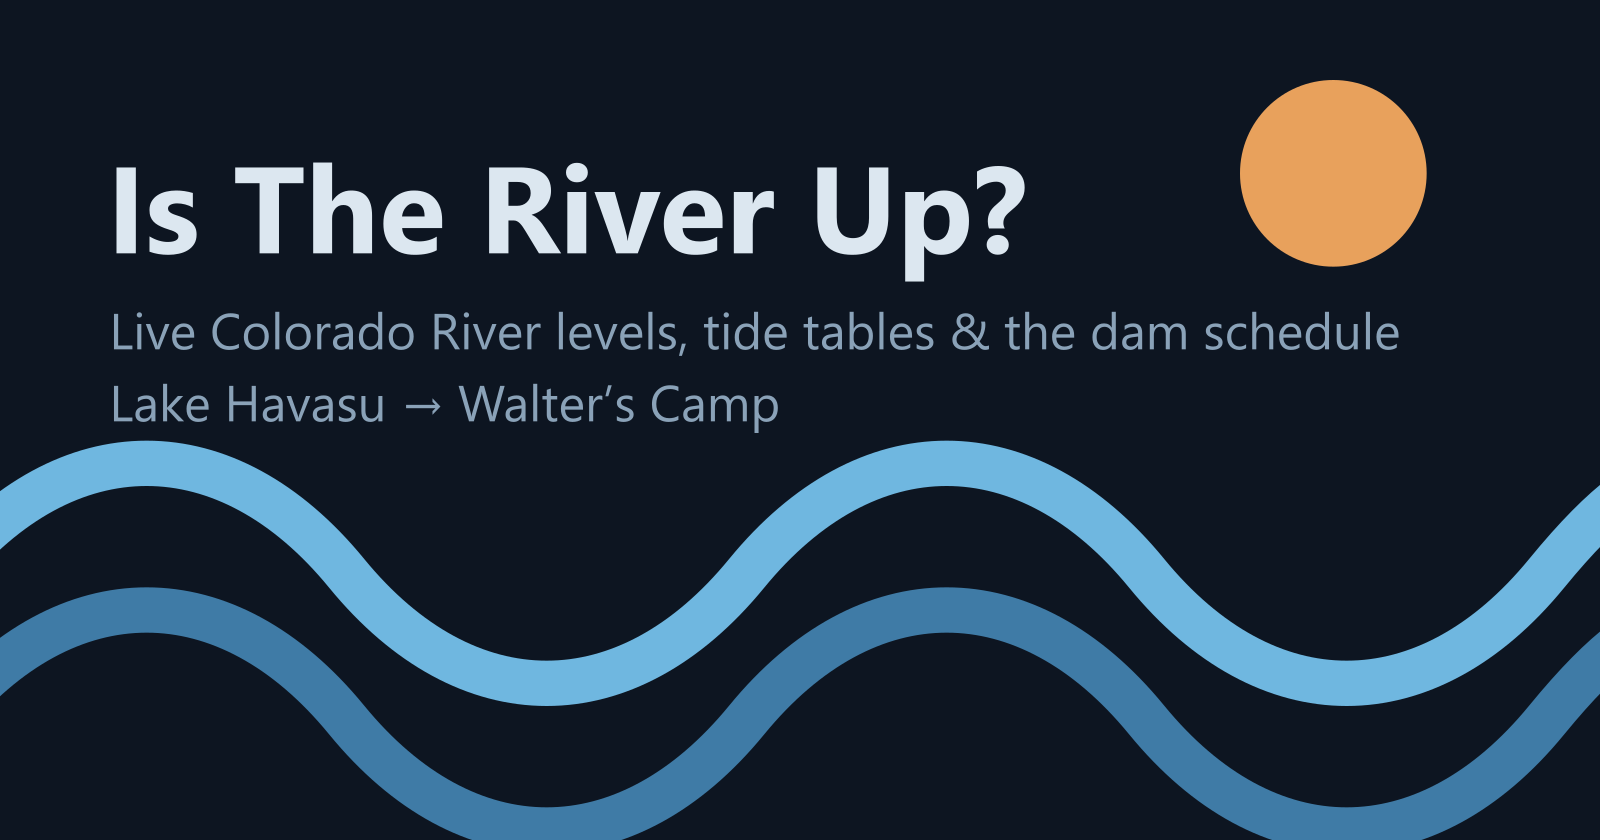
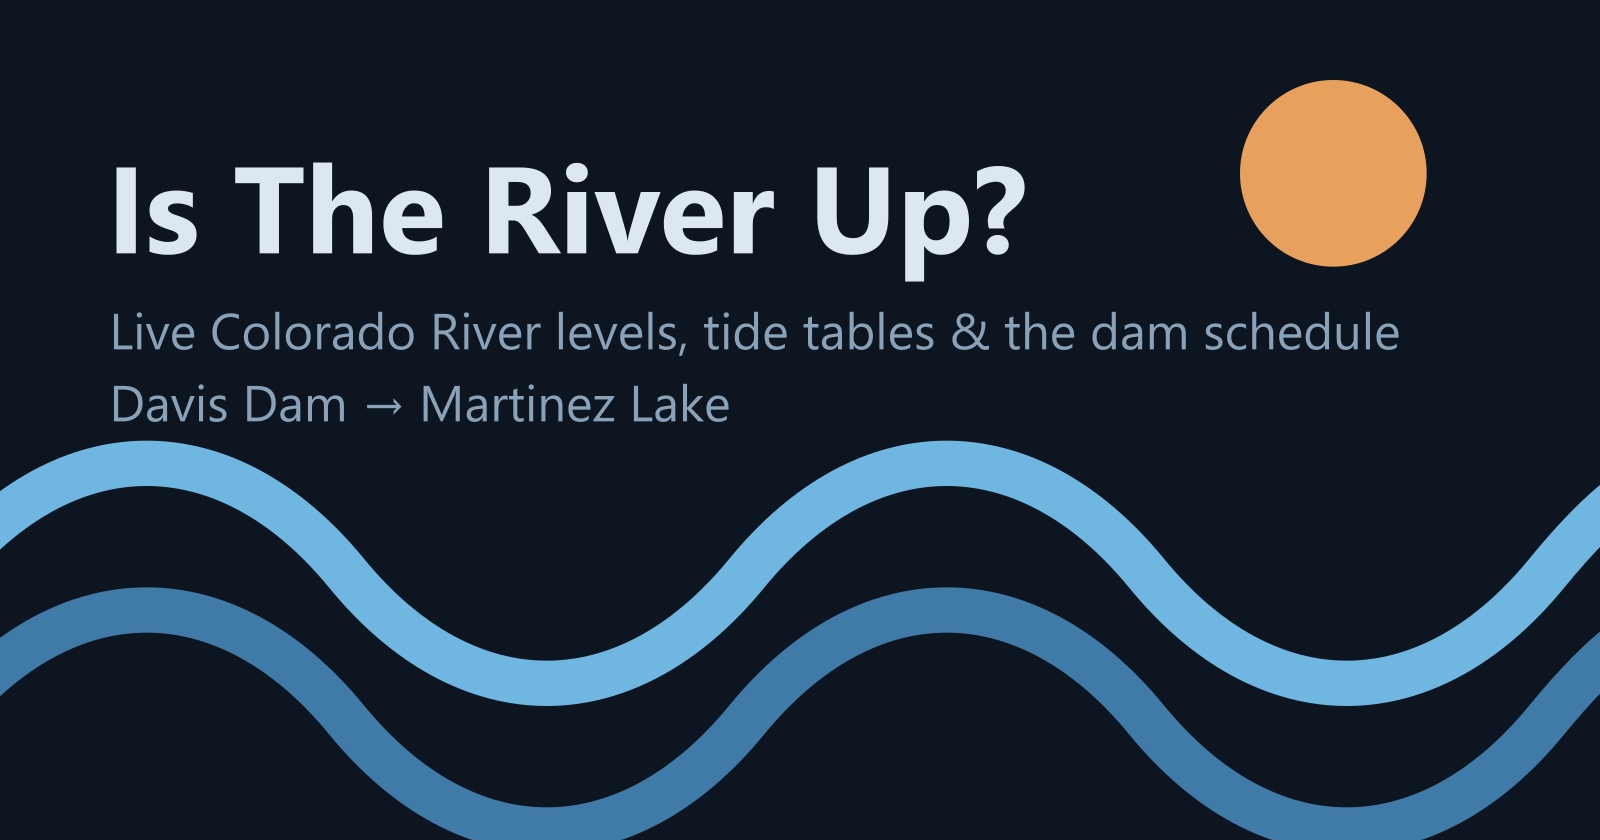
UI and backend tweaks

Changed region(s): [[0.0625, 0.4643, 0.5, 0.5262]]

diff --git a/index.html b/index.html
@@ -15,7 +15,7 @@
 <meta property="og:type" content="website">
 <meta property="og:url" content="https://istheriverup.com/">
 <meta property="og:site_name" content="Is The River Up?">
-<meta property="og:image" content="https://istheriverup.com/og-image.png">
+<meta property="og:image" content="https://istheriverup.com/og-image.png?v=2">
 <meta property="og:image:width" content="1200">
 <meta property="og:image:height" content="630">
 <meta name="twitter:card" content="summary_large_image">
@@ -47,7 +47,8 @@
   .strip .arrow{color:var(--border)}
   .hero{background:var(--panel); border:1px solid var(--border); border-left:3px solid var(--water); border-radius:14px; padding:20px 22px; margin-bottom:22px}
   .hero .eyebrow{color:var(--muted); font-size:12px; text-transform:uppercase; letter-spacing:.08em}
-  .hero .status{font-size:clamp(22px,5.2vw,31px); font-weight:600; letter-spacing:-.02em; margin:6px 0 2px; display:flex; align-items:center; gap:12px}
+  .hero .status{font-size:clamp(22px,5.2vw,31px); font-weight:600; letter-spacing:-.02em; margin:6px 0 2px} /* inline flow: the arrow wraps WITH the text instead of stranding on its own flex line */
+  .hero .status>span:first-child{margin-right:6px}
   .hero .sub{color:var(--muted); font-size:14px; min-height:3em} /* reserve ~2 lines so the hero doesn't jump when data lands */
   .hero .coming{margin-top:14px; padding-top:14px; border-top:1px solid var(--border); font-size:14px; color:var(--muted); min-height:2.6em}
   .hero .coming b{color:var(--text); font-weight:500}
@@ -97,14 +98,12 @@
   body.day .pill.high{background:#d3ece4; color:#085c3b}
   body.day .pill.low{background:#f3e4cd; color:#7a4a00}
   body.day .pill.mid{background:#e3eaf1; color:#43586c}
-  .hero .status{flex-wrap:wrap}
   .hero .eyebrow .pill.lvl{font-weight:700; letter-spacing:.04em; margin-left:8px; white-space:nowrap; vertical-align:baseline}
+  .sr-only{position:absolute; width:1px; height:1px; padding:0; margin:-1px; overflow:hidden; clip:rect(0,0,0,0); white-space:nowrap; border:0}
   .expected{color:var(--muted); font-style:italic}
   .note{color:var(--muted); font-size:12px; margin-top:10px}
   .banner{background:#2a1f14; border:1px solid #6b4a1e; color:#f0c98a; border-radius:10px; padding:12px 16px; font-size:13px; margin-bottom:18px; display:none}
   body.day .banner{background:#fdf3dd; border-color:#c9a25a; color:#6b4a00}
-  body.day .fire{background:#ddf2ee; border-color:#5aa89c; color:#0b5c50}
-  .fire{background:#12313a; border:1px solid #2f6b63; color:#9fe7db; border-radius:10px; padding:12px 16px; font-size:14px; margin-top:12px; display:none}
   select.place{background:var(--panel2); color:var(--text); border:2px solid var(--water); border-radius:14px; padding:12px 18px; font-size:18px; font-weight:700; cursor:pointer; box-shadow:0 0 0 4px rgba(127,192,232,0.14); max-width:min(62vw,360px)}
   select.place:hover{box-shadow:0 0 0 6px rgba(127,192,232,0.28)}
   .pick-label{font-size:17px; color:var(--text); font-weight:700; white-space:nowrap}
@@ -131,13 +130,15 @@
   }
   @media (max-width:680px){
     .picker-wrap{width:100%}
-    .picker-wrap select.place{flex:1; max-width:none}
-    #tip-link,#mode-btn,#refresh,#share-btn,#theme-btn{font-size:13px; padding:8px 12px}
+    .picker-wrap select.place{flex:1; max-width:none; min-width:0} /* min-width:0 — else the widest option name dictates the whole page's minimum width */
+    .updated #tip-link,.updated #mode-btn,.updated #refresh,.updated #share-btn,.updated #theme-btn{font-size:13px; padding:8px 12px} /* .updated prefix outranks the desktop rule */
+    .range-picker button{padding:9px 14px} /* comfortable touch targets */
+    .axis span.minor{display:none} /* noon labels collide with day labels at this width */
     /* On phones the hero fills the first viewport — reserve its measured
        loaded size so arriving data doesn't shove the page around (CLS). */
     .strip{min-height:118px}
     .hero .eyebrow{min-height:38px}
-    .hero .status{min-height:100px}
+    .hero .status{min-height:68px}
     .hero .sub{min-height:130px}
     .hero .coming{min-height:118px}
   }
@@ -148,12 +149,13 @@
   .spin{display:inline-block; width:12px; height:12px; border:2px solid var(--border); border-top-color:var(--water); border-radius:50%; vertical-align:-2px}
   .skel{position:relative; overflow:hidden; background:var(--panel2); border-radius:8px}
   .skel::after{content:""; position:absolute; top:0; left:0; right:0; bottom:0; transform:translateX(-100%); background:linear-gradient(90deg, transparent, rgba(140,170,200,0.13), transparent)}
+  body.day .skel::after{background:linear-gradient(90deg, transparent, rgba(30,60,90,0.10), transparent)}
   .skel-card{height:252px} /* matches a populated card, so the grid doesn't grow on swap */
-  .chart-skel{height:139px; margin:6px 0 4px} /* chart (120) + axis row (19) */
+  .chart-skel{height:156px; margin:6px 0 4px} /* chart (120) + axis row with the "now" label (36) */
   .axis{position:relative; height:19px; margin-top:3px; font-size:12.5px; font-weight:600; color:var(--text); opacity:0.8; display:none}
   .axis span{position:absolute; top:0; white-space:nowrap}
   body.simple .adv-only{display:none}
-  #tip-link,#mode-btn,#refresh,#share-btn{font-size:15px; padding:10px 18px; border-radius:12px; font-weight:700; cursor:pointer}
+  #tip-link,#mode-btn,#refresh,#share-btn,#theme-btn{font-size:15px; padding:10px 18px; border-radius:12px; font-weight:700; cursor:pointer}
   #share-btn{background:transparent; color:var(--water); border:1.5px solid var(--water); white-space:nowrap}
   #share-btn:hover{background:rgba(127,192,232,0.12)}
   body.nochoice #share-btn{display:none}
@@ -162,6 +164,7 @@
   #mode-btn{background:transparent; color:var(--water); border:1.5px solid var(--water)}
   #mode-btn:hover{background:rgba(127,192,232,0.12)}
   #refresh{background:var(--water); color:#08121e; border:1.5px solid var(--water)}
+  body.day #refresh{color:#fff} /* day --water is a dark blue; near-black text on it was ~2.6:1 */
   #refresh:hover{filter:brightness(1.12)}
   #refresh:disabled{opacity:0.55; cursor:default}
   .skel-row{height:14px; margin:10px 0}
@@ -192,7 +195,7 @@ try{
   <h1>Is The River Up?</h1>
   <span class="coords">Davis Dam &rarr; Martinez Lake</span>
   <span class="picker-wrap"><label class="pick-label" for="place-sel">📍 Your spot:</label><select id="place-sel" class="place"></select></span>
-  <span class="updated"><span id="load-spin" class="spin" style="display:none"></span><span id="updated">Loading&hellip;</span><a href="https://ko-fi.com/IsTheRiverUp" target="_blank" rel="noopener" id="tip-link" title="This site is free — tips cover the domain and upkeep. Opens the Ko-fi tip jar in a new tab.">🛟 Tip jar</a><button id="share-btn" title="Share a link that opens right on this spot — or copy it to the clipboard.">📤 Share</button><button id="theme-btn" title="Bright-sun day mode / night mode. Auto-picks by time of day until you choose.">☀ Day</button><button id="mode-btn">Advanced</button><button id="refresh">Refresh</button></span>
+  <span class="updated"><span id="load-spin" class="spin" style="display:none"></span><span id="updated" aria-live="polite">Loading&hellip;</span><a href="https://ko-fi.com/IsTheRiverUp" target="_blank" rel="noopener" id="tip-link" title="This site is free — tips cover the domain and upkeep. Opens the Ko-fi tip jar in a new tab.">🛟 Tip jar</a><button id="share-btn" title="Share a link that opens right on this spot — or copy it to the clipboard.">📤 Share</button><button id="theme-btn" title="Bright-sun day mode / night mode. Auto-picks by time of day until you choose.">☀ Day</button><button id="mode-btn">Advanced</button><button id="refresh">Refresh</button></span>
 </header>
 
 <div class="strip" id="strip"></div>
@@ -237,9 +240,9 @@ try{
       <h2>Coming toward you &mdash; next few days</h2>
       <span class="fc-now" id="hg-next"></span>
     </div>
-    <p class="lead" id="hg-lead">Loading Reclamation&rsquo;s Headgate Rock Dam schedule&hellip;</p>
+    <p class="lead" id="hg-lead">Loading Reclamation&rsquo;s dam release schedule&hellip;</p>
     <div class="skel chart-skel" id="hg-skel"></div>
-    <svg id="hg-chart" viewBox="0 0 900 120" preserveAspectRatio="none" style="display:none"></svg>
+    <svg id="hg-chart" viewBox="0 0 900 120" preserveAspectRatio="none" style="display:none" role="img" aria-label="Forecast chart: dam release schedule and measured en-route water, shifted to your spot. The next highs and lows are listed in the tide table below."></svg>
     <div class="axis" id="hg-axis"></div>
     <p class="note adv-only" id="hg-note"></p>
   </div>
@@ -251,12 +254,12 @@ try{
       <h2 id="fc-title">Recent &mdash; nearest sensor</h2>
       <span class="fc-now" id="fc-now"></span>
     </div>
-    <p class="lead" id="fc-lead">Loading Reclamation&rsquo;s hourly record at the Water Wheel reference sensor&hellip;</p>
+    <p class="lead" id="fc-lead">Loading Reclamation&rsquo;s hourly record&hellip;</p>
     <div class="range-picker" id="range-pick">
       <button data-d="1">24h</button><button data-d="2">2 days</button><button data-d="4">4 days</button><button data-d="7">7 days</button>
     </div>
     <div class="skel chart-skel" id="fc-skel"></div>
-    <svg id="fc-chart" viewBox="0 0 900 120" preserveAspectRatio="none" style="display:none"></svg>
+    <svg id="fc-chart" viewBox="0 0 900 120" preserveAspectRatio="none" style="display:none" role="img" aria-label="Recent-flow chart from the nearest sensor. The recent highs and lows are listed in the tide table below."></svg>
     <div class="axis" id="fc-axis"></div>
     <div class="links adv-only">
       <a href="https://www.usbr.gov/lc/region/g4000/hourly/DavisParkerSchedules.pdf" target="_blank" rel="noopener" id="sched-link">Parker Dam projected schedule (PDF) &#8599;</a>
@@ -269,7 +272,7 @@ try{
   <div class="section-panel">
     <h2>Tide table &mdash; daily highs &amp; lows</h2>
     <p class="lead" id="tide-lead">When the pulse peaks and bottoms out at your reach. Times are Arizona (MST).</p>
-    <table class="tide"><thead><tr><th>When (MST)</th><th></th><th id="tide-lvl-th">Above weekly low</th></tr></thead>
+    <table class="tide"><thead><tr><th>When (MST)</th><th><span class="sr-only">High or low</span></th><th id="tide-lvl-th">Above weekly low</th></tr></thead>
       <tbody id="tide-body"><tr><td colspan="3" style="color:var(--muted)">Loading&hellip;</td></tr></tbody>
     </table>
   </div>
@@ -285,9 +288,9 @@ try{
 </section>
 
 <footer>
-  <span class="adv-only"><span style="color:var(--water)">Build 2026-07-11k</span> &mdash; place picker &middot; GitHub data relay &middot; no server functions.<br>
+  <span class="adv-only"><span style="color:var(--water)">Build 2026-07-11l</span> &mdash; place picker &middot; GitHub data relay &middot; no server functions.<br>
   Place timing is estimated from Reclamation river miles and the pulse travel speed (default ~4 mph, editable at the top of this file).<span id="cal-note"></span><br>
-  How the data flows: your browser fetches the four USGS gauges live on every load. Reclamation&rsquo;s servers don&rsquo;t allow browser access, so a GitHub robot gathers their eight river sensors, Lake Havasu&rsquo;s level, and both dam-schedule PDFs about three times an hour and publishes them for this page (that&rsquo;s the &ldquo;data gathered&rdquo; time in the header).</span><br>
+  How the data flows: your browser fetches the five USGS gauges live on every load. Reclamation&rsquo;s servers don&rsquo;t allow browser access, so a GitHub robot gathers their river sensors (Davis Dam to Martinez Lake), Lake Havasu&rsquo;s level, and the dam-schedule PDFs about three times an hour and publishes them for this page (the header shows how fresh that data is).</span><br>
   All values are provisional. This is not a flood-warning system. Times are Arizona (MST).
 </footer>
 
@@ -522,7 +525,6 @@ function stageSwing(stageSeries){
 
 // ---------- helpers ----------
 function fmt(n){ return n==null ? "\u2014" : Math.round(n).toLocaleString(); }
-function fmtFt(n){ return n==null ? "\u2014" : n.toFixed(2); }
 function azTime(ms){ return new Date(ms).toLocaleString([], {timeZone:"America/Phoenix", month:"short", day:"numeric", hour:"numeric", minute:"2-digit"}); }
 var store = {
   get:function(k){ try { return JSON.parse(localStorage.getItem(k)); } catch(e){ return null; } },
@@ -562,7 +564,7 @@ function spark(series){
   var vals=series.map(function(p){return p.v;}), min=Math.min.apply(null,vals), max=Math.max.apply(null,vals), span=(max-min)||1;
   var W=280,H=38,pad=2, step=(W-2*pad)/(series.length-1), d="";
   series.forEach(function(p,i){ var x=pad+i*step, y=pad+(H-2*pad)*(1-(p.v-min)/span); d += (i?"L":"M")+x.toFixed(1)+" "+y.toFixed(1)+" "; });
-  return '<svg viewBox="0 0 '+W+' '+H+'" preserveAspectRatio="none"><path d="'+d+'" fill="none" stroke="var(--water)" stroke-width="1.5" stroke-linejoin="round"/></svg>';
+  return '<svg viewBox="0 0 '+W+' '+H+'" preserveAspectRatio="none" aria-hidden="true"><path d="'+d+'" fill="none" stroke="var(--water)" stroke-width="1.5" stroke-linejoin="round"/></svg>';
 }
 function ageShort(t){
   var m=Math.round((Date.now()-t)/60000);
@@ -650,7 +652,7 @@ function areaChart(svg, series, color, dashed, axisId, showNow, hideFutureLabels
     ax.style.height = labels.some(function(L){return L.now;}) ? "36px" : "19px";
     ax.innerHTML = labels.map(function(L){
       var tr = L.pct<4 ? "translateX(0)" : (L.pct>96 ? "translateX(-100%)" : "translateX(-50%)");
-      return '<span style="left:'+L.pct.toFixed(2)+'%; transform:'+tr+';'+(L.now?' color:var(--water); font-weight:700; top:16px;':'')+(L.minor?' font-size:10.5px; opacity:0.65; font-weight:400;':'')+'">'+L.txt+'</span>';
+      return '<span'+(L.minor?' class="minor"':'')+' style="left:'+L.pct.toFixed(2)+'%; transform:'+tr+';'+(L.now?' color:var(--water); font-weight:700; top:16px;':'')+(L.minor?' font-size:10.5px; opacity:0.65; font-weight:400;':'')+'">'+L.txt+'</span>';
     }).join("");
     ax.style.display = labels.length ? "block" : "none";
   }
@@ -681,10 +683,12 @@ function initCrosshair(hold, svg){
     chip.textContent=azClock(best.t)+" "+azDay(best.t)+" · "+val+tag;
     line.style.left=xp.toFixed(1)+"px";
     dot.style.left=xp.toFixed(1)+"px"; dot.style.top=yp.toFixed(1)+"px";
-    var pct=xp/rect.width*100;
-    chip.style.left=xp.toFixed(1)+"px";
-    chip.style.transform = pct<10 ? "translateX(0)" : (pct>90 ? "translateX(-100%)" : "translateX(-50%)");
+    // Clamp by the chip's real width so the timestamp never clips off-screen
+    // on narrow charts (percent thresholds alone let long chips overflow).
     line.style.display=dot.style.display=chip.style.display="block";
+    var _half=(chip.offsetWidth||0)/2;
+    chip.style.transform="translateX(-50%)";
+    chip.style.left=Math.max(_half+2, Math.min(rect.width-_half-2, xp)).toFixed(1)+"px";
   }
   hold.addEventListener("pointermove", show);
   hold.addEventListener("pointerdown", show);
@@ -1047,7 +1051,7 @@ function renderHero(){
       elS.innerHTML='<span style="color:'+TCOLOR[tr]+'">'+TMARK[tr]+'</span> Dam release is '+TWORD[tr];
       elSub.innerHTML='Lake Havasu sits <b style="color:var(--text)">above</b> Parker Dam, so it doesn\u2019t get the daily river tide. (Lake elevation appears once the data robot updates.) Release: '+detail+'.';
     }
-    elC.innerHTML="";
+    elC.innerHTML=""; elC.style.display="none"; // no "coming" block on the lake \u2014 an empty one shows a stray divider + reserved blank space
     return;
   }
   var abl=stageAboveLow(stageP), sw=stageSwing(stageP);
@@ -1227,6 +1231,7 @@ function renderHero(){
   var curLine='River current: roughly <b style="color:var(--text)">~'+curMph.toFixed(1)+' mph</b> \u2014 about the speed a stick drifts by.<span class="adv-only"> (Estimated as ~60% of the measured pulse speed; actual current varies with depth and spot.)</span>';
   var _aKey=(seg==="upper")?"davis":"parker", _aMile=(seg==="upper")?DAVIS_MILE:PARKER_MILE, _aName=(seg==="upper")?"Davis":"Parker";
   var _anch=null; for(var _ai=0;_ai<STATIONS.length;_ai++){ if(STATIONS[_ai].key===_aKey && STATIONS[_ai].flow.length){ _anch=STATIONS[_ai]; break; } }
+  elC.style.display="";
   if(_anch && ref.key!==_aKey){
     var lagH=stretchHours(_aMile, pl.mile);
     var eta=lagH<1.5 ? "~"+Math.round(lagH*60)+" min" : "~"+Math.round(lagH)+" h";
@@ -1414,9 +1419,14 @@ function renderHeadgate(){
   if(!fc){
     svg.style.display="none"; nextEl.innerHTML=""; noteEl.textContent="";
     var hax=document.getElementById("hg-axis"); if(hax) hax.style.display="none";
-    if(!hgTried){ lead.innerHTML='Loading Reclamation&rsquo;s Headgate Rock Dam schedule\u2026'; }
-    else if(hgErr){ lead.innerHTML='The live schedule couldn&rsquo;t be pulled this time. Your next highs and lows are in the <b style="color:var(--text)">tide table below</b>, projected from the recent rhythm. Official schedule: <a class="site-link" href="'+HG_PDF+'" target="_blank" rel="noopener">Headgate PDF \u2197</a>.'; }
-    else { lead.innerHTML='The forecast PDF loaded but parsed no rows (Reclamation may have changed the layout). Raw schedule: <a class="site-link" href="'+HG_PDF+'" target="_blank" rel="noopener">Headgate PDF \u2197</a>.'; }
+    // Name the dam that actually feeds THIS reach \u2014 telling a Laughlin user to
+    // read the Headgate PDF points them at the wrong river segment.
+    var _sg=segFor(pl), _upperOrStrip=(_sg==="upper"||_sg==="strip"||_sg==="lake");
+    var _dam=_sg==="upper" ? "Davis Dam" : (_upperOrStrip ? "Parker Dam" : "Headgate Rock Dam");
+    var _pdf=_upperOrStrip ? "https://www.usbr.gov/lc/region/g4000/hourly/DavisParkerSchedules.pdf" : HG_PDF;
+    var _pdfName=_upperOrStrip ? "Davis/Parker PDF" : "Headgate PDF";
+    if(!hgTried){ lead.innerHTML='Loading Reclamation&rsquo;s '+_dam+' schedule\u2026'; }
+    else { lead.innerHTML='The live '+_dam+' schedule couldn&rsquo;t be pulled this time. Your next highs and lows are in the <b style="color:var(--text)">tide table below</b>, projected from the recent rhythm. Official schedule: <a class="site-link" href="'+_pdf+'" target="_blank" rel="noopener">'+_pdfName+' \u2197</a>.'; }
     return;
   }
   var now=Date.now(), fut=fc.arrival.filter(function(p){ return p.t >= now - 2*3600*1000; }), series=fut.length>=4?fut:fc.arrival;
@@ -1493,6 +1503,7 @@ function renderTide(){
   }
   if(!ref || !ref.st){ body.innerHTML = loadingNow ? '<tr><td colspan="3"><div class="skel skel-row"></div><div class="skel skel-row" style="width:70%"></div></td></tr>' : '<tr><td colspan="3" style="color:var(--muted)">Waiting for data\u2026</td></tr>'; return; }
   var p=ref.st, useStage=p.stage.length>=6, series=useStage?p.stage:p.flow;
+  if(lvlTh) lvlTh.textContent = useStage ? "Above weekly low" : "Flow (cfs)"; // header must match what the rows actually print
   var shift=lagMsFrom(ref.mile, pl);
   var wkLow=useStage ? Math.min.apply(null, series.map(function(x){return x.v;})) : null;
   var toFt=tideRating(pl);
@@ -1614,7 +1625,7 @@ function loadRelay(){
     return p.then(function(r){ if(!r.ok) throw 0; return r.json(); })
       .then(function(j){
         var age=Date.now()-new Date(j.generatedAt).getTime();
-        if(!(age>=0 && age<6*3600*1000)) throw 0;
+        if(!(age>=-10*60*1000 && age<6*3600*1000)) throw 0; // tolerate a visitor clock a few minutes slow
         j._branch=it.b;
         return j;
       }).catch(next);
@@ -1664,7 +1675,8 @@ function loadAll(){
           verdict = (prevRelayT && relayInfo.t>prevRelayT+60*1000) ? " \u00b7 fresh data just loaded" : " \u00b7 nothing newer yet \u2014 sensors report hourly";
         }
         u.textContent += " \u00b7 "+fresh+verdict+((relayInfo.branch && relayInfo.branch!=="main") ? " ("+relayInfo.branch+")" : "");
-        u.title="\u2018Up to date\u2019 means the newest data the government has published is already on screen \u2014 sensors only report hourly, so Refresh can\u2019t make new readings exist.\n\nHow the data flows:\n\u2022 Checked = when this page last pulled fresh data.\n\u2022 Data gathered = when the robot last ran. Reclamation\u2019s servers don\u2019t allow browser access, so a GitHub robot collects their 8 sensors, Lake Havasu, and both dam-schedule PDFs ~3x/hour and publishes them for this page.\n\u2022 The 4 USGS gauges are fetched live by your browser on every load.\n\u2022 Each card\u2019s \u2018reading\u2019 time = the sensor\u2019s own newest measurement (Reclamation posts hourly, often 1\u20133 h behind).";
+        manualRefresh=false; // one-shot: only the click that asked gets the verdict text
+        u.title="\u2018Up to date\u2019 means the newest data the government has published is already on screen \u2014 sensors only report hourly, so Refresh can\u2019t make new readings exist.\n\nHow the data flows:\n\u2022 Checked = when this page last pulled fresh data.\n\u2022 \u2018Data up to date\u2019 / \u2018data from X ago\u2019 = how fresh the robot\u2019s last gathering is. Reclamation\u2019s servers don\u2019t allow browser access, so a GitHub robot collects their river sensors (Davis Dam to Martinez Lake), Lake Havasu, and the dam-schedule PDFs ~3x/hour and publishes them for this page.\n\u2022 The five USGS gauges are fetched live by your browser on every load.\n\u2022 Each card\u2019s \u2018reading\u2019 time = the sensor\u2019s own newest measurement (Reclamation posts hourly, often 1\u20133 h behind).";
       }
     }
   }
@@ -1705,7 +1717,7 @@ function rangeLabel(){ var d=rangeDays(); return d===1 ? "24 hours" : d+" days";
 function syncRangeButtons(){
   var rp=document.getElementById("range-pick");
   if(!rp || !rp.children) return;
-  for(var i=0;i<rp.children.length;i++){ var b=rp.children[i]; b.className = (parseInt(b.getAttribute("data-d"),10)===rangeDays()) ? "on" : ""; }
+  for(var i=0;i<rp.children.length;i++){ var b=rp.children[i]; var on=(parseInt(b.getAttribute("data-d"),10)===rangeDays()); b.className = on ? "on" : ""; b.setAttribute("aria-pressed", on?"true":"false"); }
 }
 (function initRange(){
   var rp=document.getElementById("range-pick");

diff --git a/README.md b/README.md
@@ -16,9 +16,9 @@ when that water actually reaches you.
 
 ## How it works
 
-There is no server. A GitHub Actions robot in this repo runs hourly: it fetches
-Reclamation's hourly sensor feed and two schedule PDFs, parses them, and commits
-a small `data/riverdata.json`. The static page (one HTML file, hosted on any
+There is no server. A GitHub Actions robot in this repo runs about three times
+an hour: it fetches Reclamation's hourly sensor feed and the dam schedule PDFs,
+parses them, and commits a small `data/riverdata.json`. The static page (one HTML file, hosted on any
 static host) reads that file straight from GitHub. That's the whole
 architecture — free to run, nothing to maintain, nothing to crash at 2 AM.
 
@@ -45,12 +45,13 @@ Some details the site handles that raw gauges don't:
 
 All data is public U.S. government data:
 
-- Bureau of Reclamation — Lower Colorado hourly conditions feed (nine river
-  sensors plus Lake Havasu elevation)
+- Bureau of Reclamation — Lower Colorado hourly conditions feed (river sensors
+  from Davis Dam to Martinez Lake, plus Lake Havasu elevation)
 - Bureau of Reclamation — Headgate Rock Dam and Davis/Parker projected release
-  schedules (PDF, parsed hourly)
-- USGS — Colorado River below Palo Verde Dam (09429100) and Palo Verde Canal
-  (09429000) real-time gauges
+  schedules (PDF, parsed on each robot run)
+- USGS — five real-time gauges: below Davis Dam (09423000), below Palo Verde
+  Dam (09429100), Palo Verde Canal (09429000), CRIT Main Canal (09428500), and
+  Poston Wasteway (09428510)
 - Bureau of Reclamation — Lower Colorado River Mile Index (Aug 2001) for
   documented river miles
 
